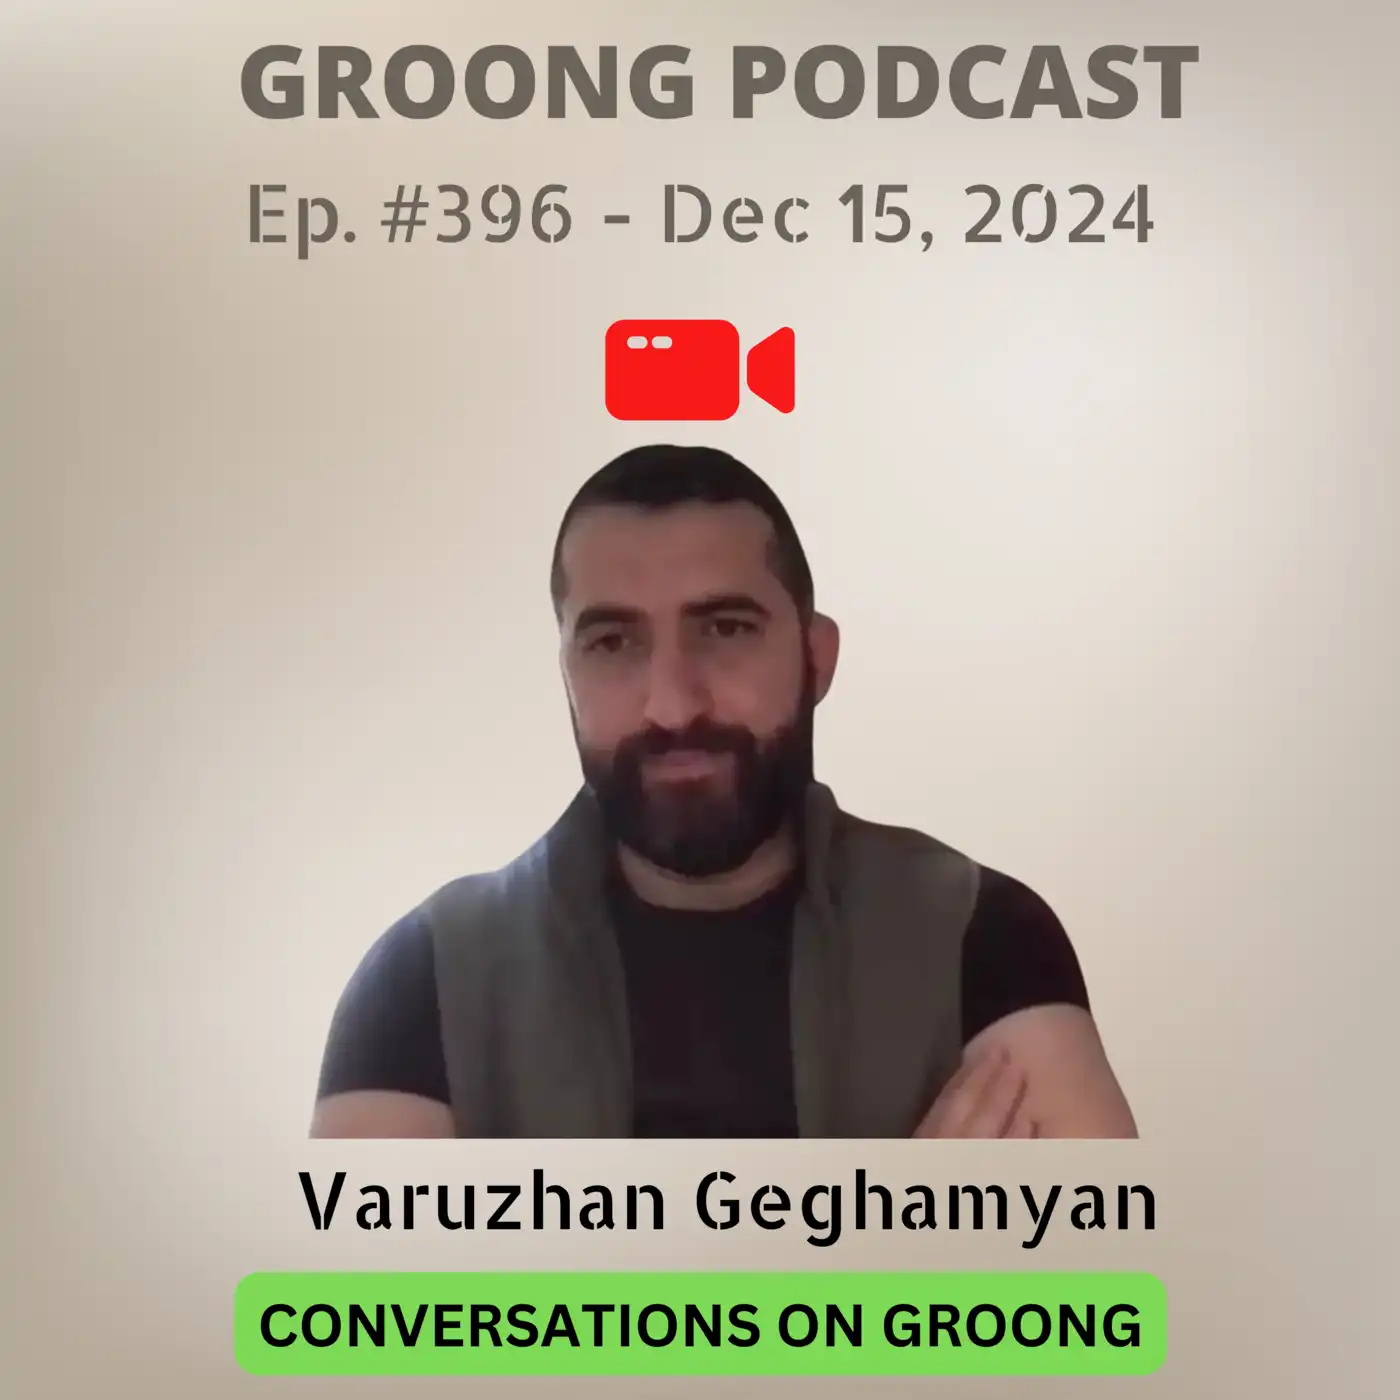
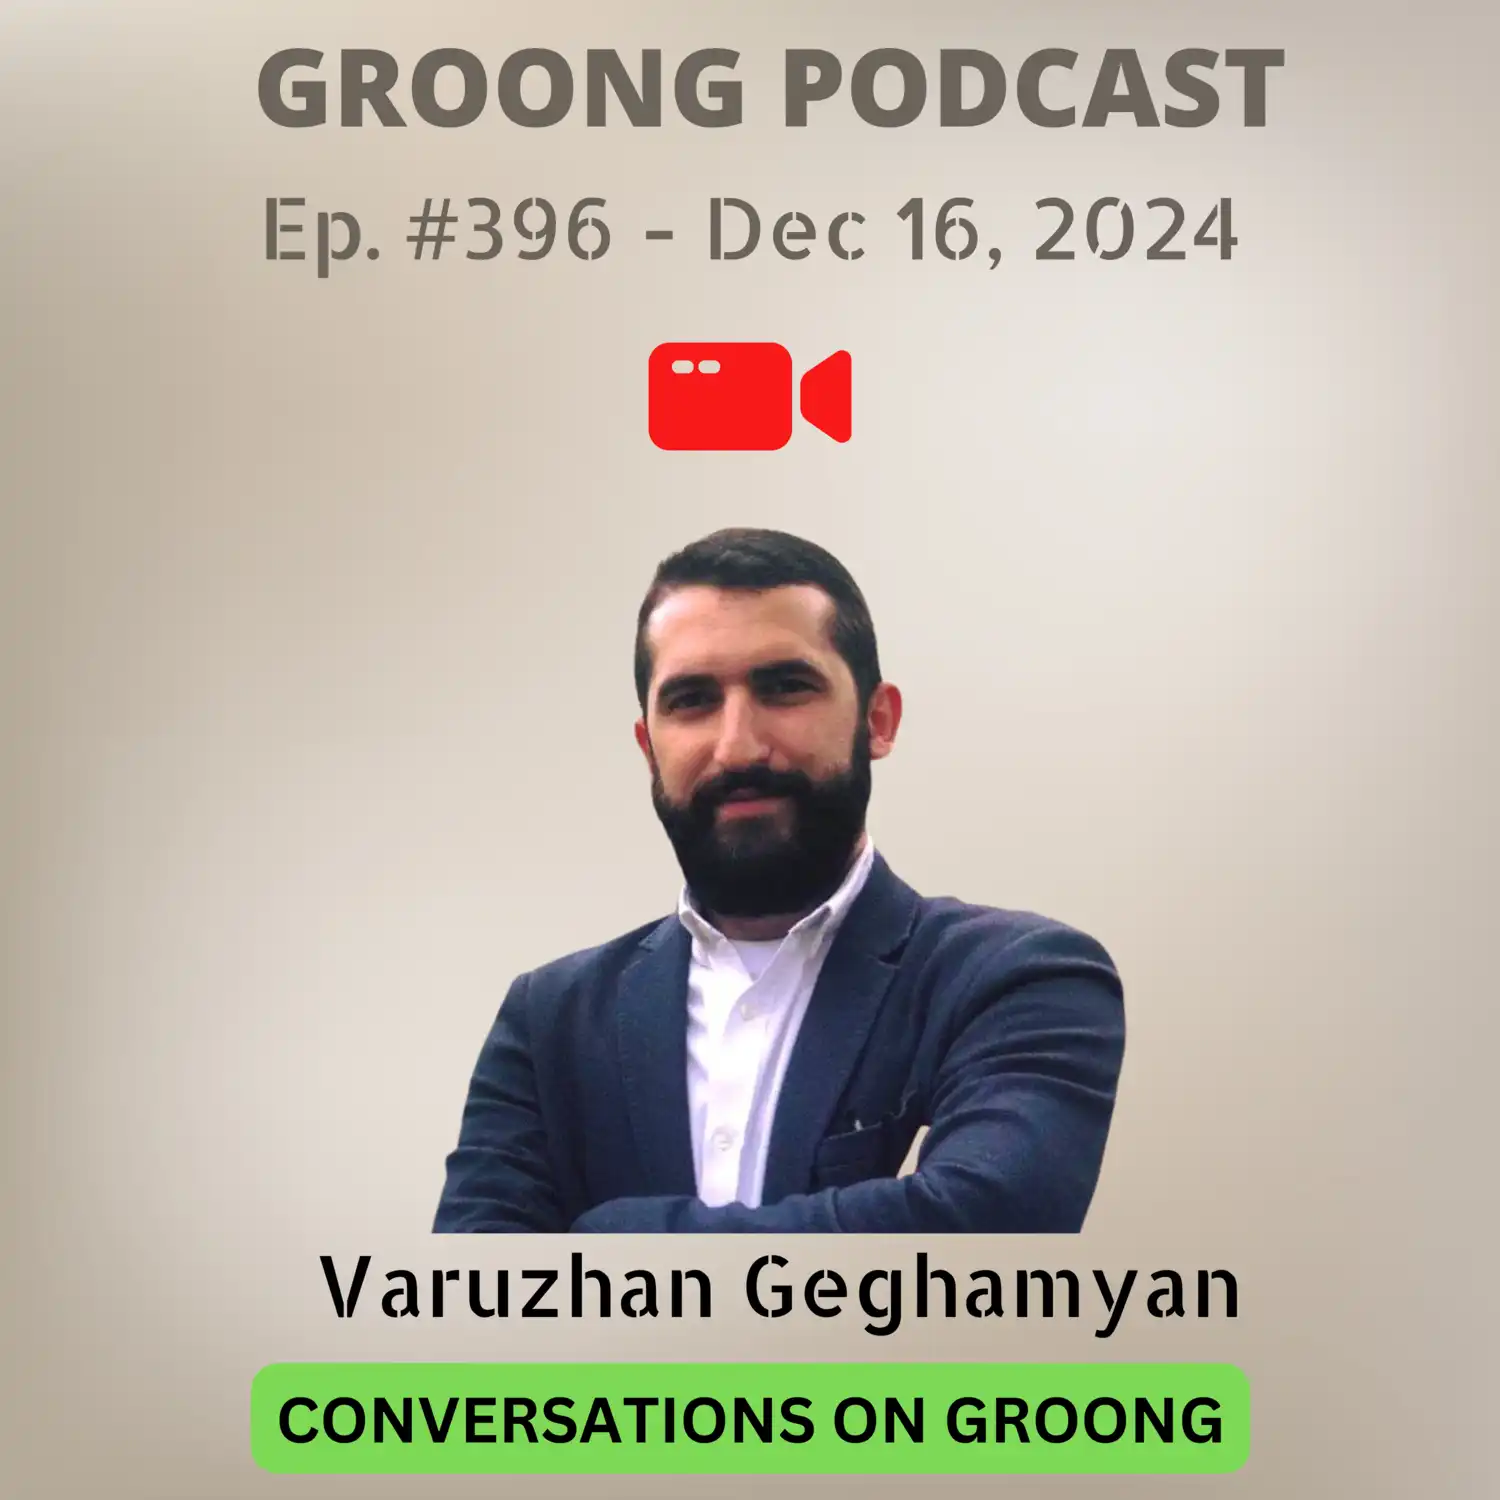
Updating episode 396

diff --git a/content/episode/396-varuzhan-geghamyan-syria-middle-east-armenia-south-caucasus-regional-power-dynamics.md b/content/episode/396-varuzhan-geghamyan-syria-middle-east-armenia-south-caucasus-regional-power-dynamics.md
@@ -1,15 +1,15 @@
 +++
-Date = 2024-12-15T12:00:00-08:00
+Date = 2024-12-16T13:00:00-08:00
 upcoming = true
 explicit = "no"
 
-title = "Varuzhan Geghamyan - Syria and the Middle East, Armenia and the South Caucasus, Regional Power Dynamics  | Ep 396, Dec 15, 2024"
-subtitle = "Conversations on Groong - 12/15/2024"
+title = "Varuzhan Geghamyan - Syria and the Middle East, Armenia and the South Caucasus, Regional Power Dynamics  | Ep 396, Dec 16, 2024"
+subtitle = "Conversations on Groong - 12/16/2024"
 
 podcast_file = ""
 podcast_duration = ""
 podcast_bytes = ""
-youtube = ""
+youtube = "zic4d4_QL_k"
 
 episode_image = "img/episode/396/thumbnail-396.webp"
 episode_banner = "img/episode/396/banner-396.webp"
@@ -23,7 +23,7 @@ aliases = ["/396"]
 
 series = ["cog"]
 categories = ["Middle East", "Armenia", "Politics"]
-tags = ["Varuzhan Geghamyan", "Syria", "Middle East", "HTS", "Hayat Tahrir al-Sham", "SNA", "Syrian National Army", "Turkey", "Israel", "Russia", "Armenia", "Nagorno Karabakh", "Iran", "Russia", "Kurds", "NATO", "Gaza", "Palestine", "Hezbollah"]
+tags = ["Varuzhan Geghamyan", "Syria", "Middle East", "Hayat Tahrir al-Sham", "HTS", "Syrian National Army", "SNA", "Idlib", "Turkey", "Erdogan", "Russia", "Putin", "Armenia", "Nagorno Karabakh", "Azerbaijan", "Aliyev", "Iran", "Khamenei", "Kurds", "PKK", "NATO", "Ukraine war", "Zangezur Corridor", "South Caucasus", "3+3 platform", "proxy wars", "Kurdish autonomy", "Turkey-Russia relations", "Iran-Armenia relations", "Syrian conflict", "Armenia-Turkey relations", "U.S.-Kurdish alliance", "Hezbollah", "Gaza", "Palestine", "Israel", "Iranian influence", "Pan-Turanism", "diplomacy"]
 
 Description = """
 #### Groong Links:
@@ -42,7 +42,76 @@ Episode 396 | Recorded: December 13, 2024
 """
 +++
 
+# Show Notes
 
+## **Topics Covered**
+
+### **1. Syria and the Middle East**
+
+* **Syria’s Post-Conflict Path**: Insights into shifting power structures and international negotiations shaping Syria’s trajectory.
+* **Turkey’s Expanding Role**: From Hayat Tahrir al-Sham (HTS) in Idlib to the Turkish-backed Syrian National Army (SNA), how Ankara asserts its influence.
+* **Proxy Wars in Action**: Examining the clash between U.S.-backed Kurdish forces and Turkey-supported factions, and its impact on regional stability.
+* **Strategic Realignments**: How Turkey’s involvement affects its relationships with Russia and Iran, signaling broader regional shifts.
+
+### **2. The South Caucasus**
+
+* **Syria’s Ripple Effects**: How developments in the Middle East intersect with Armenia-Azerbaijan relations.
+* **Turkey’s Pan-Turanic Ambitions**: Regional ramifications of Ankara’s goals, alongside Azerbaijan’s aggressive approach in negotiations.
+* **Iran’s Strategic Calculations**: Evaluating Tehran’s "red lines" in Armenia and its stance on the so-called "Zangezur corridor."
+* **Security and Diplomacy**: Assessing how Middle Eastern conflicts influence Armenia’s regional standing.
+
+### **3. Turkey, Russia, Iran**
+
+* **Tensions in Focus**: How divergent interests over Syria strain Turkey, Russia, and Iran’s cooperation.
+* **The 3+3 Platform**: Evaluating the survival of this initiative amid growing discord.
+* **Turkey’s Leverage**: Moscow’s vulnerabilities in Syria and Ukraine provide Ankara with new bargaining power.
+* **Implications for Stability**: Broader lessons for peace and conflict resolution across these intertwined regions.
+
+---
+
+## **Key Questions Discussed**
+
+* What does the current balance of power in the Middle East reveal about shifting alliances?
+* Can Kurdish groups maintain U.S. support amid changing priorities?
+* How do the Armenia-Azerbaijan conflict and Syria’s developments interconnect?
+* What strategies will Russia adopt in response to challenges in Ukraine and the Middle East?
+* Will Turkey-Iran-Russia tensions undermine broader cooperation?
+
+---
+
+## **Guest Information**
+
+Dr. Varuzhan Geghamyan is an assistant professor at Yerevan State University’s Department of Oriental Studies. His research spans Turkey’s modern history, Azerbaijani sociocultural anthropology, and political ideologies in the Middle East. With extensive fieldwork in Syria, Dr. Geghamyan offers invaluable insights into the region’s complexities.
+
+---
+
+## **Timestamps**
+
+* **[00:00](https://youtu.be/zic4d4_QL_k?t=0)** Introduction and Episode Overview
+* **[03:00](https://youtu.be/zic4d4_QL_k?t=180)** Syria’s Post-War Landscape: Challenges and Opportunities
+* **[15:30](https://youtu.be/zic4d4_QL_k?t=930)** Proxy Wars and Kurdish Autonomy: A Geopolitical Tug-of-War
+* **[28:00](https://youtu.be/zic4d4_QL_k?t=1680)** The South Caucasus and Its Strategic Significance
+* **[40:00](https://youtu.be/zic4d4_QL_k?t=2400)** Regional Power Dynamics: The Turkey-Iran-Russia Nexus
+* **[50:00](https://youtu.be/zic4d4_QL_k?t=3000)** Key Takeaways and Reflections
+* **[55:00](https://youtu.be/zic4d4_QL_k?t=3300)** Closing Remarks and Future Outlook
+
+---
+
+## **Call to Action**
+
+Thank you for tuning in to **Conversations on Groong**. If you found this episode insightful, please **subscribe, like, and share** it with your network. Subscribing ensures you’ll stay updated on our latest episodes, while sharing helps expand our community of listeners passionate about Armenia and its geopolitical landscape.
+
+Your support is vital. Consider contributing via[ Patreon](https://podcasts.groong.org/donate) or[ Buy Me a Coffee](https://podcasts.groong.org/donate) to help us continue delivering high-quality content. Every donation sustains our efforts to shed light on Armenia’s role in global affairs.
+
+We welcome your feedback and questions! Connect with us on social media, and let us know your thoughts. Together, we can deepen understanding of the challenges and opportunities facing Armenia today.
+
+---
+
+## **Links**
+
+* **Guest Profile**:[ Varuzhan Geghamyan](https://podcasts.groong.org/guest/vgeghamyan)
+* **Host Profiles**:[ Hovik Manucharyan](https://podcasts.groong.org/host/hovik),[ Asbed Bedrossian](https://podcasts.groong.org/host/asbed)
+* **Podcast Homepage**:[ Groong Podcasts](https://podcasts.groong.org/)
 
 # Wrap-up
 
